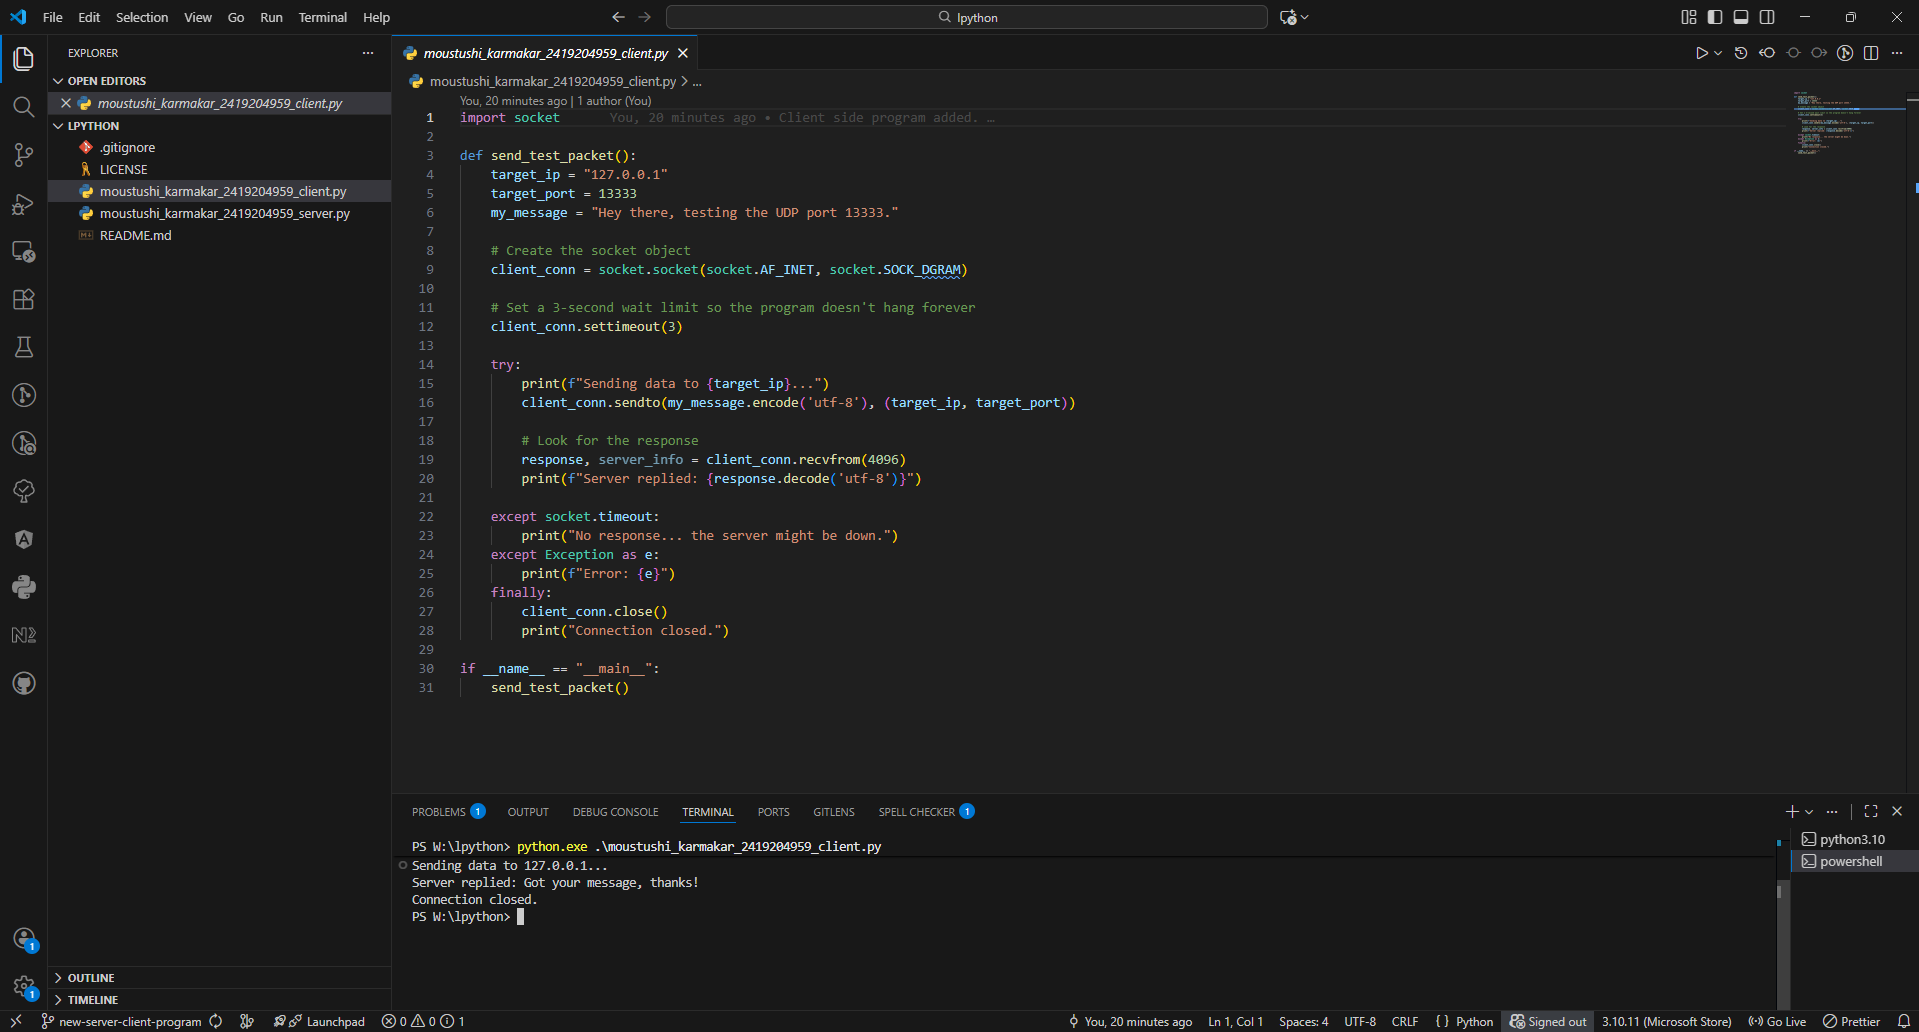
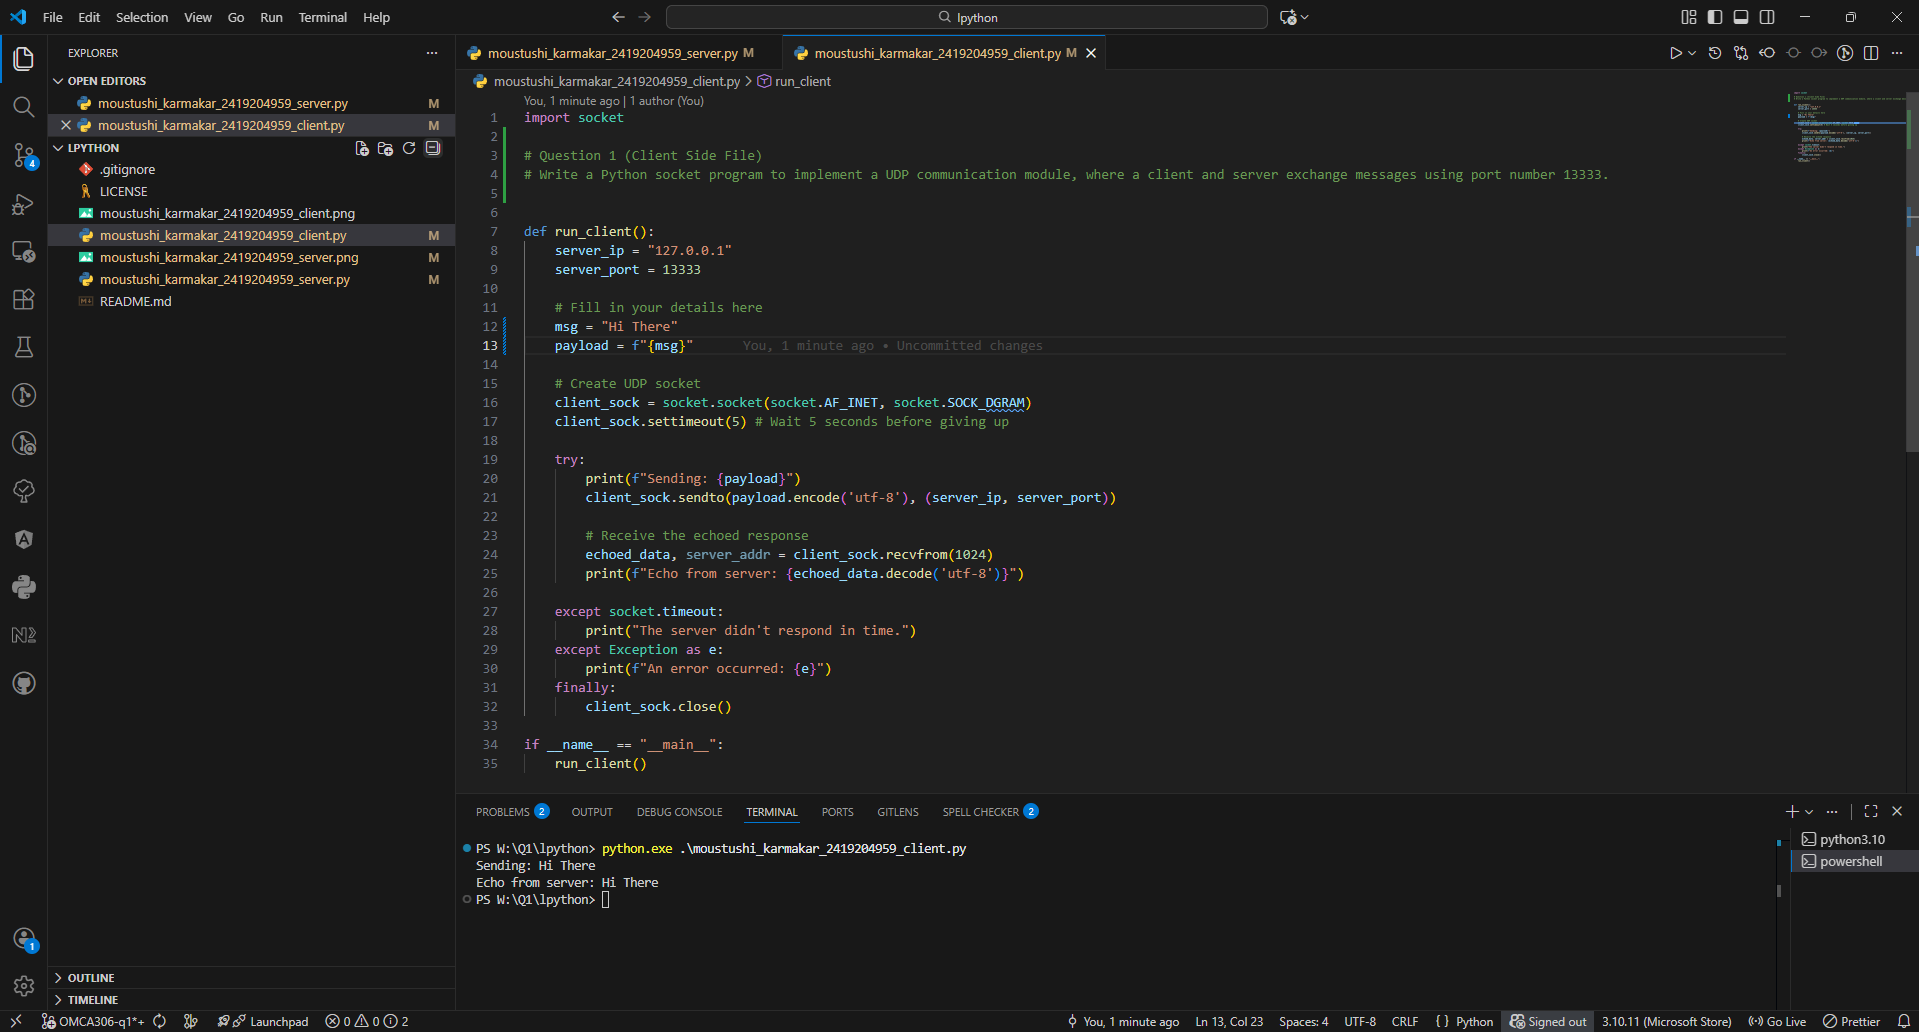
Changes for Q1

diff --git a/moustushi_karmakar_2419204959_client.py b/moustushi_karmakar_2419204959_client.py
@@ -1,13 +1,16 @@
 import socket
 
+# Question 1 (Client Side File)
+# Write a Python socket program to implement a UDP communication module, where a client and server exchange messages using port number 13333.
+
+
 def run_client():
     server_ip = "127.0.0.1"
     server_port = 13333
 
     # Fill in your details here
-    name = "MoutushiKarmakar"
-    reg_num = "2419204959"
-    payload = f"{name}_{reg_num}"
+    msg = "Hi There"
+    payload = f"{msg}"
 
     # Create UDP socket
     client_sock = socket.socket(socket.AF_INET, socket.SOCK_DGRAM)

diff --git a/moustushi_karmakar_2419204959_server.py b/moustushi_karmakar_2419204959_server.py
@@ -1,5 +1,8 @@
 import socket
 
+# Question 1 (Server Side File)
+# Write a Python socket program to implement a UDP communication module, where a client and server exchange messages using port number 13333.
+
 def run_server():
     # Local setup
     host = "127.0.0.1"
